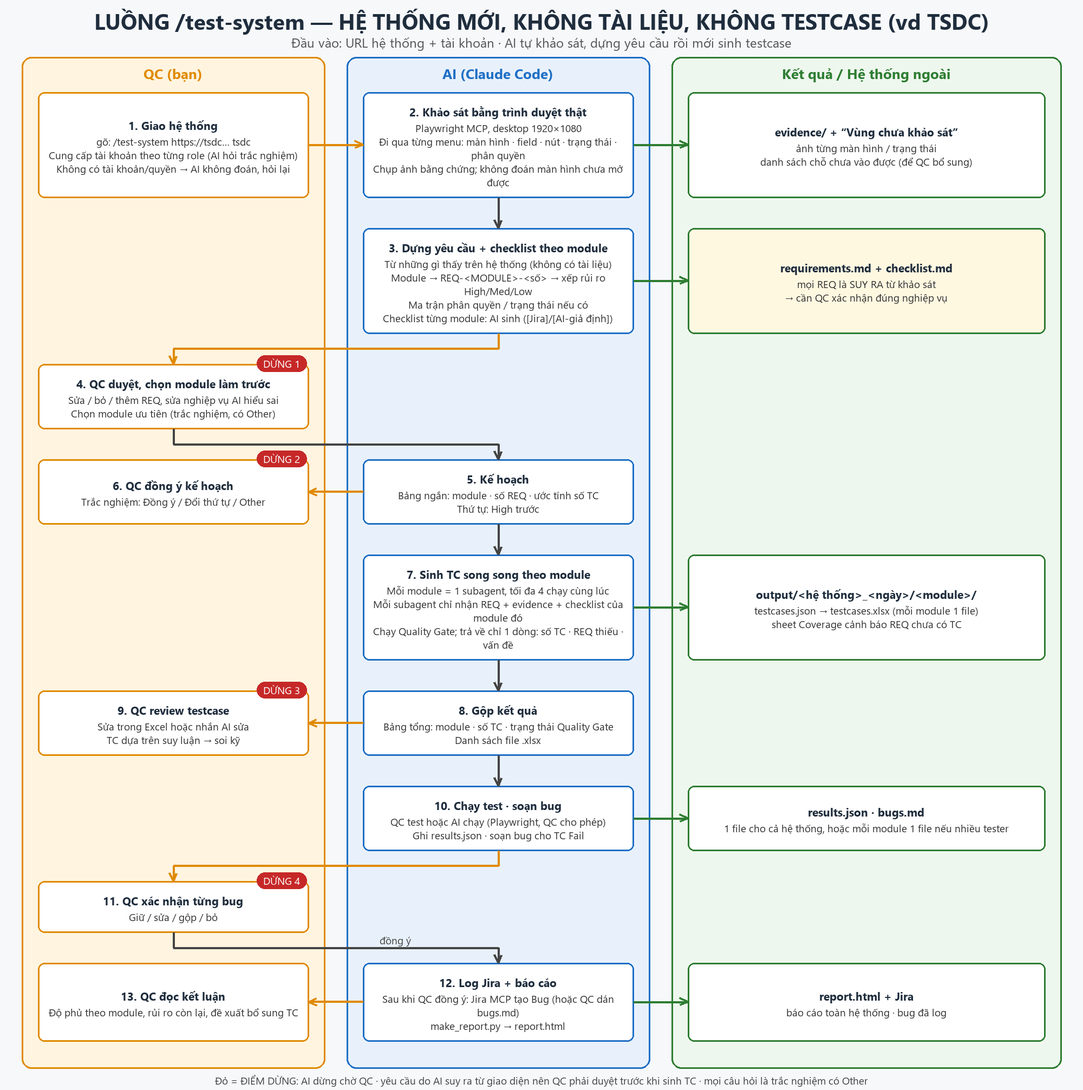
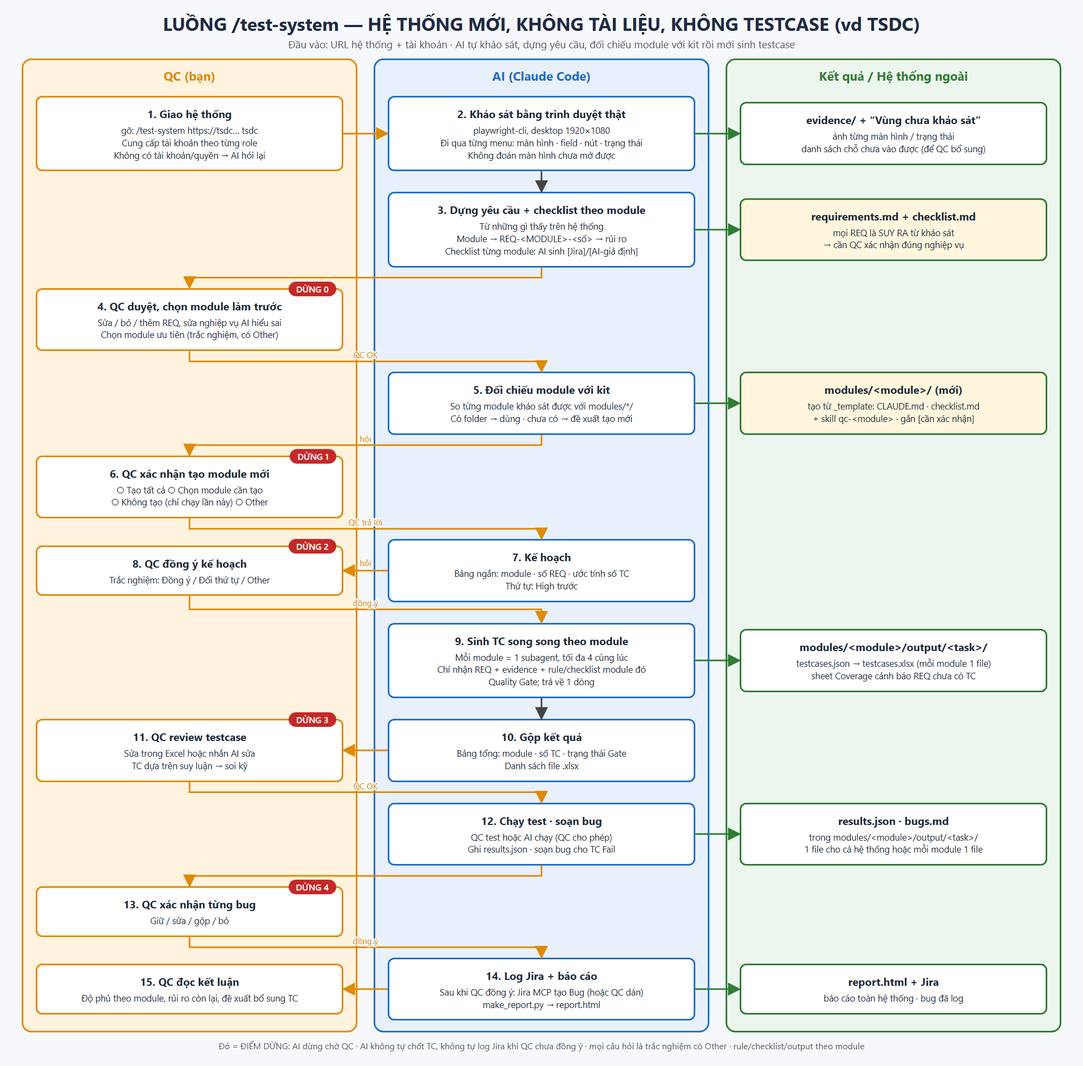
AI tự xác định module + xác nhận QC, vẽ lại ảnh luồng, thêm scripts/make_flows.py

diff --git a/scripts/make_flows.py b/scripts/make_flows.py
@@ -1,0 +1,202 @@
+# -*- coding: utf-8 -*-
+"""Sinh 3 ảnh luồng luong-test-*.png (swimlane) bằng HTML + Edge/Chrome headless.
+Chạy: python -I scripts/make_flows.py   (sửa nội dung ở FLOWS bên dưới rồi chạy lại)"""
+import html, json, os, re, subprocess, sys, tempfile
+
+ROOT = os.path.dirname(os.path.dirname(os.path.abspath(__file__)))
+BROWSERS = [r"C:\Program Files (x86)\Microsoft\Edge\Application\msedge.exe",
+            r"C:\Program Files\Google\Chrome\Application\chrome.exe"]
+
+# step: (id, lane, row, title, [dòng], số_điểm_dừng|None, style)   lane: qc|ai|out
+# edge: (từ, đến, nhãn)
+MOD_AI = ("Xác định module (AI tự phân tích)",
+          ["So task với Phạm vi + Từ khoá nhận diện", "của modules/*/CLAUDE.md"])
+NEW_MOD = ("modules/<module>/",
+           ["Khớp → dùng module có sẵn", "Không khớp → module mới: tạo từ _template",
+            "(CLAUDE.md · checklist.md · skill qc-<module>)"])
+
+FLOWS = {
+ "luong-test-task": dict(
+  title="LUỒNG /test-task — TASK UPCODE TRÊN JIRA",
+  sub="Đầu vào: Jira key hoặc mô tả task · AI tự xác định module, QC xác nhận",
+  steps=[
+   (1, "qc", 0, "Giao task", ["gõ: /test-task VNEDU-1234", "(hoặc dán mô tả task)"], None, ""),
+   (2, "ai", 0, "Đọc yêu cầu", ["Đọc ticket qua Jira MCP", "mô tả · AC · comment · file đính kèm"], None, ""),
+   (20, "out", 0, "Jira", ["ticket nguồn (chỉ ĐỌC ở bước này)"], None, ""),
+   (3, "ai", 1, *MOD_AI, None, ""),
+   (30, "out", 1, *NEW_MOD, None, "warn"),
+   (4, "qc", 2, "Xác nhận module", ["○ Đúng module AI nêu  ○ Chọn module khác", "○ Nhiều module (chính + ảnh hưởng chéo)", "○ Module mới → tạo folder + skill  ○ Other"], 0, ""),
+   (5, "ai", 3, "Nạp skill + checklist module", ["Nạp qc-<module> + rule module", "Checklist: modules/<module>/checklist.md", "Chưa có → hỏi QC"], None, ""),
+   (6, "qc", 3, "Chưa có checklist → AI hỏi", ["○ QC gửi checklist  ○ AI tự sinh (đề xuất)", "○ Bỏ qua (dùng checklist chung)  ○ Other"], 1, ""),
+   (50, "out", 3, "checklist.md", ["AI sinh: mục [Jira] / [AI-giả định]", "QC duyệt → lưu vào module hoặc chỉ task này"], None, "warn"),
+   (7, "ai", 4, "Phân tích", ["Rút REQ-… + xếp rủi ro High/Med/Low", "Mơ hồ chặn việc viết TC → hỏi QC"], None, ""),
+   (8, "qc", 4, "Trả lời câu hỏi (nếu có)", ["Trắc nghiệm, chọn đáp án hoặc Other"], 2, ""),
+   (9, "ai", 5, "Sinh testcase", ["Theo skill qc-testcase + rule/checklist module", "Quality Gate 5 mục · batch 15–25 TC", "Không in bảng ra chat"], None, ""),
+   (90, "out", 5, "modules/<module>/output/<task>/", ["testcases.json → testcases.xlsx", "sheet Testcase + sheet Coverage (REQ × TC)"], None, ""),
+   (10, "qc", 6, "QC review / bổ sung TC", ["Sửa trong Excel hoặc nhắn AI sửa", "→ xlsx_to_tc.py đồng bộ lại"], 3, ""),
+   (11, "ai", 7, "Chạy test & ghi kết quả", ["A: AI chạy playwright-cli / mobile-mcp (QC cho phép)", "B: QC tự test, báo ngắn: TC_001 pass; TC_002 fail: …"], None, ""),
+   (110, "out", 7, "results.json (+ screenshots/)", ["mỗi TC: Pass / Fail / Blocked / Skip", "thực tế · bug_id · bằng chứng"], None, ""),
+   (12, "ai", 8, "Soạn bug cho TC Fail", ["Theo templates/bug_template.md", "1 bug = 1 nguyên nhân · soát trùng"], None, ""),
+   (120, "out", 8, "bugs.md", ["bản nháp bug — chưa gửi đi đâu"], None, ""),
+   (13, "qc", 9, "QC xác nhận từng bug", ["Giữ / sửa / gộp / bỏ"], 4, ""),
+   (14, "ai", 10, "Log bug lên Jira", ["Chỉ SAU khi QC đồng ý", "Jira MCP tạo Bug, link ticket gốc", "Không có MCP: QC dán từ bugs.md"], None, ""),
+   (140, "out", 10, "Jira", ["Bug mới gắn vào ticket gốc", "key ghi lại vào results.json"], None, ""),
+   (15, "ai", 11, "Báo cáo", ["make_report.py results.json → report.html"], None, ""),
+   (150, "out", 11, "report.html", ["Số Pass/Fail/Blocked · tỉ lệ Pass", "danh sách bug · bảng TC lọc theo trạng thái"], None, ""),
+   (16, "qc", 11, "QC đọc kết luận", ["Quyết định release / yêu cầu dev sửa"], None, ""),
+  ],
+  edges=[(1, 2, ""), (2, 20, ""), (2, 3, ""), (3, 30, ""), (3, 4, "hỏi xác nhận"), (4, 5, "QC OK"), (5, 6, "chưa có"),
+         (5, 50, "AI sinh"), (6, 7, "QC trả lời"), (7, 8, "hỏi"), (8, 9, ""), (9, 90, ""), (9, 10, ""), (10, 11, "QC OK"),
+         (11, 110, ""), (11, 12, ""), (12, 120, ""), (12, 13, ""), (13, 14, "đồng ý"), (14, 140, ""), (14, 15, ""),
+         (15, 150, ""), (15, 16, "")]),
+ "luong-test-with-tc": dict(
+  title="LUỒNG /test-with-tc — ĐÃ CÓ TESTCASE (kiểm định / regression)",
+  sub="Đầu vào: file Excel testcase có sẵn · AI tự xác định module, QC xác nhận · checklist không bắt buộc",
+  steps=[
+   (1, "qc", 0, "Giao file testcase", ["gõ: /test-with-tc D:\\tc\\kiem_dinh_hss.xlsx", "(+ phạm vi nếu đã biết)"], None, ""),
+   (2, "ai", 0, "Nạp testcase", ["xlsx_to_tc.py: tự nhận cột theo tên tiêu đề", "báo: nhận bao nhiêu TC, cột nào nhận / không", "Cột sai → hỏi trắc nghiệm (có Other)"], None, ""),
+   (20, "out", 0, "testcases.json", ["bản chuẩn hoá của file Excel gốc", "file Excel gốc KHÔNG bị sửa"], None, ""),
+   (3, "ai", 1, *MOD_AI, None, ""),
+   (30, "out", 1, *NEW_MOD, None, "warn"),
+   (4, "qc", 2, "Xác nhận module", ["○ Đúng module AI nêu  ○ Chọn module khác", "○ Nhiều module  ○ Module mới → tạo folder + skill", "○ Other"], 0, ""),
+   (5, "ai", 3, "Hỏi phạm vi + checklist", ["Checklist không bắt buộc (đã có TC)", "Nếu có: báo mục checklist chưa có TC bao phủ"], None, ""),
+   (6, "qc", 3, "QC chọn (trắc nghiệm, có Other)", ["Phạm vi: tất cả / theo module / ưu tiên High / ID", "Đối chiếu độ phủ checklist?", "○ QC gửi  ○ AI sinh từ TC + tài liệu  ○ Không cần"], 1, ""),
+   (50, "out", 3, "checklist.md (nếu chọn)", ["modules/<module>/checklist.md", "dùng để tìm TC còn thiếu"], None, "warn"),
+   (7, "ai", 4, "Chạy test theo nhóm 10–15 TC", ["A: AI chạy playwright-cli / mobile-mcp (QC cho phép)", "B: QC tự test, báo ngắn: TC_001 pass; TC_002 fail: …", "Không sửa TC gốc; TC lỗi thời → danh sách riêng"], None, ""),
+   (70, "out", 4, "results.json (+ screenshots/)", ["Pass / Fail / Blocked / Skip + thực tế + bằng chứng", "Danh sách “TC cần cập nhật” (QC quyết sau)"], None, ""),
+   (8, "ai", 5, "Soạn bug cho TC Fail", ["Theo templates/bug_template.md", "1 bug = 1 nguyên nhân · soát trùng"], None, ""),
+   (80, "out", 5, "bugs.md", ["bản nháp, chưa gửi đi đâu"], None, ""),
+   (9, "qc", 6, "QC xác nhận từng bug", ["Giữ / sửa / gộp / bỏ"], 2, ""),
+   (10, "ai", 7, "Log bug lên Jira", ["Chỉ SAU khi QC đồng ý", "Jira MCP tạo Bug, link ticket gốc", "Không có MCP: QC dán từ bugs.md"], None, ""),
+   (100, "out", 7, "Jira", ["Bug mới, key ghi lại vào results.json"], None, ""),
+   (11, "ai", 8, "Báo cáo", ["make_report.py results.json → report.html", "kèm phần “TC cần cập nhật” trong kết luận"], None, ""),
+   (110, "out", 8, "report.html", ["Pass/Fail/Blocked · tỉ lệ Pass", "danh sách bug · bảng TC lọc theo trạng thái"], None, ""),
+   (12, "qc", 8, "QC đọc kết luận", ["Quyết định release / cập nhật bộ TC / yêu cầu dev sửa"], None, ""),
+  ],
+  edges=[(1, 2, ""), (2, 20, ""), (2, 3, ""), (3, 30, ""), (3, 4, "hỏi xác nhận"), (4, 5, "QC OK"), (5, 6, "hỏi"), (5, 50, ""),
+         (6, 7, "QC chọn"), (7, 70, ""), (7, 8, ""), (8, 80, ""), (8, 9, ""), (9, 10, "đồng ý"), (10, 100, ""),
+         (10, 11, ""), (11, 110, ""), (11, 12, "")]),
+ "luong-test-system": dict(
+  title="LUỒNG /test-system — HỆ THỐNG MỚI, KHÔNG TÀI LIỆU, KHÔNG TESTCASE (vd TSDC)",
+  sub="Đầu vào: URL hệ thống + tài khoản · AI tự khảo sát, dựng yêu cầu, đối chiếu module với kit rồi mới sinh testcase",
+  steps=[
+   (1, "qc", 0, "Giao hệ thống", ["gõ: /test-system https://tsdc… tsdc", "Cung cấp tài khoản theo từng role", "Không có tài khoản/quyền → AI hỏi lại"], None, ""),
+   (2, "ai", 0, "Khảo sát bằng trình duyệt thật", ["playwright-cli, desktop 1920×1080", "Đi qua từng menu: màn hình · field · nút · trạng thái", "Không đoán màn hình chưa mở được"], None, ""),
+   (20, "out", 0, "evidence/ + “Vùng chưa khảo sát”", ["ảnh từng màn hình / trạng thái", "danh sách chỗ chưa vào được (để QC bổ sung)"], None, ""),
+   (3, "ai", 1, "Dựng yêu cầu + checklist theo module", ["Từ những gì thấy trên hệ thống", "Module → REQ-<MODULE>-<số> → rủi ro", "Checklist từng module: AI sinh [Jira]/[AI-giả định]"], None, ""),
+   (30, "out", 1, "requirements.md + checklist.md", ["mọi REQ là SUY RA từ khảo sát", "→ cần QC xác nhận đúng nghiệp vụ"], None, "warn"),
+   (4, "qc", 2, "QC duyệt, chọn module làm trước", ["Sửa / bỏ / thêm REQ, sửa nghiệp vụ AI hiểu sai", "Chọn module ưu tiên (trắc nghiệm, có Other)"], 0, ""),
+   (5, "ai", 3, "Đối chiếu module với kit", ["So từng module khảo sát được với modules/*/", "Có folder → dùng · chưa có → đề xuất tạo mới"], None, ""),
+   (50, "out", 3, "modules/<module>/ (mới)", ["tạo từ _template: CLAUDE.md · checklist.md", "+ skill qc-<module> · gắn [cần xác nhận]"], None, "warn"),
+   (6, "qc", 4, "QC xác nhận tạo module mới", ["○ Tạo tất cả  ○ Chọn module cần tạo", "○ Không tạo (chỉ chạy lần này)  ○ Other"], 1, ""),
+   (7, "ai", 5, "Kế hoạch", ["Bảng ngắn: module · số REQ · ước tính số TC", "Thứ tự: High trước"], None, ""),
+   (8, "qc", 5, "QC đồng ý kế hoạch", ["Trắc nghiệm: Đồng ý / Đổi thứ tự / Other"], 2, ""),
+   (9, "ai", 6, "Sinh TC song song theo module", ["Mỗi module = 1 subagent, tối đa 4 cùng lúc", "Chỉ nhận REQ + evidence + rule/checklist module đó", "Quality Gate; trả về 1 dòng"], None, ""),
+   (90, "out", 6, "modules/<module>/output/<task>/", ["testcases.json → testcases.xlsx (mỗi module 1 file)", "sheet Coverage cảnh báo REQ chưa có TC"], None, ""),
+   (10, "ai", 7, "Gộp kết quả", ["Bảng tổng: module · số TC · trạng thái Gate", "Danh sách file .xlsx"], None, ""),
+   (11, "qc", 7, "QC review testcase", ["Sửa trong Excel hoặc nhắn AI sửa", "TC dựa trên suy luận → soi kỹ"], 3, ""),
+   (12, "ai", 8, "Chạy test · soạn bug", ["QC test hoặc AI chạy (QC cho phép)", "Ghi results.json · soạn bug cho TC Fail"], None, ""),
+   (120, "out", 8, "results.json · bugs.md", ["trong modules/<module>/output/<task>/", "1 file cho cả hệ thống hoặc mỗi module 1 file"], None, ""),
+   (13, "qc", 9, "QC xác nhận từng bug", ["Giữ / sửa / gộp / bỏ"], 4, ""),
+   (14, "ai", 10, "Log Jira + báo cáo", ["Sau khi QC đồng ý: Jira MCP tạo Bug (hoặc QC dán)", "make_report.py → report.html"], None, ""),
+   (140, "out", 10, "report.html + Jira", ["báo cáo toàn hệ thống · bug đã log"], None, ""),
+   (15, "qc", 10, "QC đọc kết luận", ["Độ phủ theo module, rủi ro còn lại, đề xuất bổ sung TC"], None, ""),
+  ],
+  edges=[(1, 2, ""), (2, 20, ""), (2, 3, ""), (3, 30, ""), (3, 4, ""), (4, 5, "QC OK"), (5, 50, ""), (5, 6, "hỏi"),
+         (6, 7, "QC trả lời"), (7, 8, "hỏi"), (8, 9, "đồng ý"), (9, 90, ""), (9, 10, ""), (10, 11, ""), (11, 12, "QC OK"),
+         (12, 120, ""), (12, 13, ""), (13, 14, "đồng ý"), (14, 140, ""), (14, 15, "")]),
+}
+
+CSS = """
+*{box-sizing:border-box}
+body{margin:0;background:#f6f8fb;font-family:'Segoe UI','Be Vietnam Pro',Arial,sans-serif;color:#1f2937;width:2000px}
+h1{margin:0;padding:20px 0 2px;text-align:center;font-size:34px;color:#1f2a44}
+.sub{text-align:center;color:#556;font-size:19px;margin-bottom:14px}
+#wrap{position:relative;margin:0 40px;display:grid;grid-template-columns:1fr 1fr 1fr;column-gap:30px;align-content:start}
+.lane{border-radius:18px;border:3px solid;z-index:0}
+.lane.qc{background:#fff3df;border-color:#e08a00}
+.lane.ai{background:#e8f0fc;border-color:#1f6fcc}
+.lane.out{background:#edf6ee;border-color:#2e7d32}
+.hd{z-index:1;text-align:center;font-weight:700;font-size:23px;padding:16px 0 6px}
+.hd.qc{color:#e08a00}.hd.ai{color:#1f6fcc}.hd.out{color:#2e7d32}
+.card{position:relative;z-index:2;margin:16px 26px 22px;background:#fff;border:3px solid;border-radius:12px;padding:16px 18px;text-align:center;align-self:center}
+.card.qc{border-color:#e08a00}.card.ai{border-color:#1f6fcc}.card.out{border-color:#2e7d32}.card.warn{background:#fff6dd}
+.card b{display:block;font-size:20px;margin-bottom:6px}
+.card span{display:block;font-size:16.5px;line-height:1.38}
+.stop{position:absolute;right:10px;top:-15px;background:#c62828;color:#fff;border-radius:14px;padding:3px 14px;font-size:16px;font-weight:600}
+svg{position:absolute;left:0;top:0;z-index:3;pointer-events:none;overflow:visible}
+.foot{text-align:center;color:#556;font-size:16px;padding:14px 0 16px}
+"""
+
+JS = """
+const L=__DATA__;
+const col={qc:'#e08a00',ai:'#444',out:'#2e7d32'};
+const w=document.getElementById('wrap'),wr=w.getBoundingClientRect();
+const R=id=>{const r=document.getElementById('s'+id).getBoundingClientRect();return {l:r.left-wr.left,r:r.right-wr.left,t:r.top-wr.top,b:r.bottom-wr.top,cx:(r.left+r.right)/2-wr.left,cy:(r.top+r.bottom)/2-wr.top}};
+let svg='<defs>'+Object.entries(col).map(([k,c])=>`<marker id="m${k}" viewBox="0 0 10 10" refX="9" refY="5" markerWidth="8" markerHeight="8" orient="auto"><path d="M0,0L10,5L0,10z" fill="${c}"/></marker>`).join('')+'</defs>';
+const lane={};L.steps.forEach(s=>lane[s[0]]=s[1]);
+L.edges.forEach(([a,b,lab])=>{
+ const A=R(a),B=R(b);
+ let c;
+ if(lane[b]=='out')c='out'; else if(lane[a]=='qc'||lane[b]=='qc')c='qc'; else c='ai';
+ let d,lx,ly;
+ if(Math.abs(A.cy-B.cy)<12){const x1=A.cx<B.cx?A.r:A.l,x2=A.cx<B.cx?B.l:B.r;d=`M${x1},${A.cy}L${x2},${B.cy}`;lx=(x1+x2)/2;ly=A.cy-8;}
+ else if(Math.abs(A.cx-B.cx)<20){d=`M${A.cx},${A.b}L${B.cx},${B.t}`;lx=A.cx+8;ly=(A.b+B.t)/2;}
+ else{const my=(A.b+B.t)/2;d=`M${A.cx},${A.b}L${A.cx},${my}L${B.cx},${my}L${B.cx},${B.t}`;lx=(A.cx+B.cx)/2;ly=my-6;}
+ svg+=`<path d="${d}" fill="none" stroke="${col[c]}" stroke-width="3" marker-end="url(#m${c})"/>`;
+ if(lab)svg+=`<text x="${lx}" y="${ly}" text-anchor="middle" font-size="15" fill="${col[c]}" stroke="#f6f8fb" stroke-width="4" paint-order="stroke">${lab}</text>`;
+});
+const S=document.getElementById('svg');S.setAttribute('width',wr.width);S.setAttribute('height',wr.height);S.innerHTML=svg;
+document.body.setAttribute('data-h',Math.ceil(document.body.getBoundingClientRect().height)+10);
+"""
+
+LANES = [("qc", "QC (bạn)"), ("ai", "AI (Claude Code)"), ("out", "Kết quả / Hệ thống ngoài")]
+
+
+def build(f):
+    e = html.escape
+    nrows = max(s[2] for s in f["steps"]) + 1
+    parts = [f"<h1>{e(f['title'])}</h1><div class='sub'>{e(f['sub'])}</div><div id='wrap'>"]
+    for i, (k, name) in enumerate(LANES):
+        parts.append(f"<div class='lane {k}' style='grid-column:{i+1};grid-row:1/span {nrows+1}'></div>"
+                     f"<div class='hd {k}' style='grid-column:{i+1};grid-row:1'>{e(name)}</div>")
+    col = {"qc": 1, "ai": 2, "out": 3}
+    for sid, lane, row, title, lines, stop, style in f["steps"]:
+        num = f"{sid}. " if sid < 20 or sid in (50, 90) and False else ""
+        if sid >= 20 and sid % 10 == 0:
+            num = ""
+        elif sid < 20:
+            num = f"{sid}. "
+        st = f"<div class='stop'>DỪNG {stop}</div>" if stop is not None else ""
+        body = "".join(f"<span>{e(x)}</span>" for x in lines)
+        parts.append(f"<div class='card {lane} {style}' id='s{sid}' style='grid-column:{col[lane]};grid-row:{row+2}'>{st}<b>{e(num+title)}</b>{body}</div>")
+    parts.append("<svg id='svg'></svg></div>")
+    parts.append("<div class='foot'>Đỏ = ĐIỂM DỪNG: AI dừng chờ QC · AI không tự chốt TC, không tự log Jira khi QC chưa đồng ý · mọi câu hỏi là trắc nghiệm có Other · rule/checklist/output theo module</div>")
+    data = json.dumps({"steps": [[s[0], s[1]] for s in f["steps"]], "edges": f["edges"]}, ensure_ascii=False)
+    return ("<!doctype html><html><head><meta charset='utf-8'><style>" + CSS + "</style></head><body>"
+            + "".join(parts) + "<script>" + JS.replace("__DATA__", data) + "</script></body></html>")
+
+
+def run(exe, *a):
+    return subprocess.run([exe, "--headless=new", "--disable-gpu", "--hide-scrollbars", "--force-device-scale-factor=1", *a],
+                          capture_output=True, text=True, encoding="utf-8", timeout=120)
+
+
+def main():
+    exe = next((b for b in BROWSERS if os.path.exists(b)), None)
+    if not exe:
+        sys.exit("Không tìm thấy Edge/Chrome")
+    tmp = tempfile.mkdtemp()
+    for name, f in FLOWS.items():
+        p = os.path.join(tmp, name + ".html")
+        open(p, "w", encoding="utf-8").write(build(f))
+        url = "file:///" + p.replace("\\", "/")
+        dom = run(exe, "--window-size=2000,3000", "--dump-dom", url).stdout
+        h = int(re.search(r'data-h="(\d+)"', dom).group(1))
+        out = os.path.join(ROOT, name + ".png")
+        run(exe, f"--window-size=2000,{h}", f"--screenshot={out}", url)
+        print(name, h, os.path.exists(out))
+
+
+if __name__ == "__main__":
+    main()

diff --git a/.claude/commands/test-task.md b/.claude/commands/test-task.md
@@ -4,6 +4,13 @@ argument-hint: <Jira key hoặc dán mô tả task> [tên hệ thống: vnedu|hs
 ---
 Nạp skill `qc-testcase`. Làm theo thứ tự, **dừng ở mỗi ĐIỂM DỪNG**. Đầu vào: $ARGUMENTS
 
+## B0. Xác định module (làm trước, tự phân tích)
+Theo `modules/README.md` mục "Xác định module": so khớp nội dung đầu vào với `modules/*/CLAUDE.md` (mục Phạm vi + Từ khoá nhận diện).
+- Khớp 1 module → báo 1 dòng "Module: <tên> (lý do)", **hỏi QC xác nhận** (trắc nghiệm: đúng / chọn module khác / task chạm nhiều module).
+- Khớp nhiều module → hỏi QC chọn module chính + module ảnh hưởng chéo.
+- **Không khớp module nào → module mới**: hỏi QC (trắc nghiệm) có tạo module mới không, và tên module. Đồng ý → tạo `modules/<module>/` + skill `qc-<module>` từ `modules/_template/` (xem `modules/README.md` "Thêm module mới"), điền phần suy ra được từ task (gắn `[cần xác nhận]`), **ĐIỂM DỪNG** cho QC duyệt rule/checklist rồi mới đi tiếp.
+- Sau khi chốt: nạp skill `qc-<module>`, đọc `modules/<module>/CLAUDE.md`; output ghi vào `modules/<module>/output/<task>/` (thay cho `output/<task>/` ở các bước dưới).
+
 ## B1. Lấy yêu cầu và checklist
 - Có Jira key và Jira MCP đã kết nối → đọc ticket (mô tả, acceptance criteria, comment, file đính kèm quan trọng). Không có MCP → xin QC dán mô tả.
 - Xác định hệ thống (không rõ thì hỏi trắc nghiệm).

diff --git a/.claude/commands/test-with-tc.md b/.claude/commands/test-with-tc.md
@@ -4,6 +4,13 @@ argument-hint: <đường dẫn file .xlsx testcase> [phạm vi: module/ID/ưu t
 ---
 Nạp skill `qc-testcase`. Đầu vào: $ARGUMENTS
 
+## B0. Xác định module (làm trước, tự phân tích)
+Theo `modules/README.md` mục "Xác định module": so khớp nội dung đầu vào với `modules/*/CLAUDE.md` (mục Phạm vi + Từ khoá nhận diện).
+- Khớp 1 module → báo 1 dòng "Module: <tên> (lý do)", **hỏi QC xác nhận** (trắc nghiệm: đúng / chọn module khác / task chạm nhiều module).
+- Khớp nhiều module → hỏi QC chọn module chính + module ảnh hưởng chéo.
+- **Không khớp module nào → module mới**: hỏi QC (trắc nghiệm) có tạo module mới không, và tên module. Đồng ý → tạo `modules/<module>/` + skill `qc-<module>` từ `modules/_template/` (xem `modules/README.md` "Thêm module mới"), điền phần suy ra được từ task (gắn `[cần xác nhận]`), **ĐIỂM DỪNG** cho QC duyệt rule/checklist rồi mới đi tiếp.
+- Sau khi chốt: nạp skill `qc-<module>`, đọc `modules/<module>/CLAUDE.md`; output ghi vào `modules/<module>/output/<task>/` (thay cho `output/<task>/` ở các bước dưới).
+
 ## B1. Nạp TC và checklist
 - `python -I scripts/xlsx_to_tc.py "<file.xlsx>" output/<task>/testcases.json` (thêm `--sheet <tên>` nếu nhiều sheet).
 - Báo QC: nhận bao nhiêu TC, cột nào nhận được / không nhận được. Cột sai thì hỏi QC (trắc nghiệm, có Other) cột nào là cột nào.

diff --git a/modules/README.md b/modules/README.md
@@ -13,10 +13,17 @@ Mỗi module (hồ sơ số, sổ đầu bài, ...) = 1 thư mục riêng, gồm
 - `ho-so-so` — Hồ sơ số (mẫu)
 - `so-dau-bai` — Sổ đầu bài (mẫu)
 
+## Xác định module (AI tự làm khi nhận task)
+1. Đọc nhanh mục "Phạm vi" + "Từ khoá nhận diện" của `modules/*/CLAUDE.md` (không đọc hết file).
+2. So với tiêu đề/mô tả/component/tên màn hình trong task.
+3. Báo kết quả + lý do 1 dòng, **hỏi QC xác nhận** (trắc nghiệm). Nhiều module → hỏi module chính + ảnh hưởng chéo. Không khớp → đề xuất tạo module mới.
+
 ## Thêm module mới
 1. Copy `modules/_template/` → `modules/<module>/` (bỏ `SKILL.md` ra bước 2).
 2. Copy `modules/_template/SKILL.md` → `.claude/skills/qc-<module>/SKILL.md`, thay `<module>`.
 3. Điền `CLAUDE.md` + `checklist.md` (mục `[điền]`). Giữ mục nào chưa chắc là `[cần xác nhận]`.
-4. Chạy: `/test-task <ticket> module:<module>`.
+4. Chạy: `/test-task <ticket>` (AI tự nhận module; có thể ghi kèm `module:<module>` để bỏ qua bước đoán).
+
+AI tự thực hiện bước 1–3 khi gặp module mới, sau khi QC đồng ý.
 
 Quy tắc chung (CLAUDE.md gốc + skill `qc-testcase`) luôn áp dụng; rule module chỉ **bổ sung**, không được mâu thuẫn.

diff --git a/.claude/commands/test-system.md b/.claude/commands/test-system.md
@@ -9,6 +9,9 @@ Nạp skill `qc-testcase`. Đầu vào: $ARGUMENTS
 - Không đủ thông tin đăng nhập/quyền → hỏi QC (trắc nghiệm, có Other).
 - **Checklist:** theo skill `qc-testcase` mục 0 — chưa có thì hỏi QC gửi hay AI sinh; với hệ thống mới, AI sinh checklist **theo từng module** và QC duyệt cùng danh sách REQ ở B2.
 
+## B1b. Đối chiếu module với kit
+Với mỗi module khảo sát được, đối chiếu `modules/*/`. Module chưa có folder → hỏi QC (trắc nghiệm) có tạo không; đồng ý → tạo từ `modules/_template/` + skill `qc-<module>` (theo `modules/README.md`), điền phần suy ra được, gắn `[cần xác nhận]`. Output từng module ghi vào `modules/<module>/output/`.
+
 ## B2. Danh sách module + REQ
 Ghi `output/<hệ thống>_<ngày>/requirements.md`: module → REQ (mã `REQ-<MODULE>-<số>`) → rủi ro. Kèm ma trận phân quyền / trạng thái nếu có. **ĐIỂM DỪNG 1 — QC duyệt danh sách module và REQ, chọn module làm trước.**
 

diff --git a/CLAUDE.md b/CLAUDE.md
@@ -13,7 +13,7 @@ Bạn là trợ lý cho QC. Mục tiêu: giảm công sức test manual, chạy 
 8. Không ghi mật khẩu, token thật vào file trong kit.
 
 ## Module
-Task thuộc module nào (hồ sơ số, sổ đầu bài...) → nạp skill `qc-<module>` + đọc `modules/<module>/CLAUDE.md` trước khi sinh TC; output ghi vào `modules/<module>/output/<task>/`. Không rõ module → hỏi trắc nghiệm.
+Khi nhận task, **AI tự phân tích task thuộc module nào** (so với `modules/*/CLAUDE.md`), rồi **hỏi QC xác nhận** bằng trắc nghiệm. Xác nhận xong → nạp skill `qc-<module>` + đọc `modules/<module>/CLAUDE.md`; output ghi vào `modules/<module>/output/<task>/`. Không khớp module nào → hỏi QC có tạo module mới không; đồng ý thì tạo folder + skill từ `modules/_template/` (xem `modules/README.md`).
 
 ## Tiết kiệm token
 - Chỉ đọc checklist liên quan tới màn hình đang test (field / component / scenarios), không đọc hết.

diff --git a/modules/so-dau-bai/CLAUDE.md b/modules/so-dau-bai/CLAUDE.md
@@ -5,6 +5,10 @@ Bổ sung cho `CLAUDE.md` gốc và skill `qc-testcase`. Skill: `qc-so-dau-bai`.
 - Màn hình/chức năng: [cần xác nhận] chọn lớp/môn/tiết · ghi nội dung bài · điểm danh/xếp loại tiết · nhận xét · duyệt/khoá sổ
 - Ngoài phạm vi: [điền]
 
+## Từ khoá nhận diện (để AI xếp task vào module)
+- [cần xác nhận] sổ đầu bài, tiết học, nội dung bài, nhận xét tiết, khoá sổ, thời khoá biểu
+- [điền] tên màn hình, thuật ngữ, component Jira, từ hay gặp trong ticket
+
 ## Vai trò & phân quyền
 | Vai trò | Quyền chính | Tài khoản test (tên biến, KHÔNG ghi mật khẩu) |
 |---|---|---|

diff --git a/modules/ho-so-so/CLAUDE.md b/modules/ho-so-so/CLAUDE.md
@@ -5,6 +5,10 @@ Bổ sung cho `CLAUDE.md` gốc và skill `qc-testcase`. Skill: `qc-ho-so-so`. C
 - Màn hình/chức năng: [cần xác nhận] danh sách hồ sơ · tạo/sửa hồ sơ · đính kèm/xem tệp · duyệt · xuất/in
 - Ngoài phạm vi: [điền]
 
+## Từ khoá nhận diện (để AI xếp task vào module)
+- [cần xác nhận] hồ sơ số, hồ sơ điện tử, tệp đính kèm, kho hồ sơ, duyệt hồ sơ
+- [điền] tên màn hình, thuật ngữ, component Jira, từ hay gặp trong ticket
+
 ## Vai trò & phân quyền
 | Vai trò | Quyền chính | Tài khoản test (tên biến, KHÔNG ghi mật khẩu) |
 |---|---|---|

diff --git a/modules/_template/CLAUDE.md b/modules/_template/CLAUDE.md
@@ -5,6 +5,9 @@ Bổ sung cho `CLAUDE.md` gốc và skill `qc-testcase`. Skill: `qc-<module>`. C
 - Màn hình/chức năng: [điền]
 - Ngoài phạm vi: [điền]
 
+## Từ khoá nhận diện (để AI xếp task vào module)
+- [điền] tên màn hình, thuật ngữ, component Jira, từ hay gặp trong ticket
+
 ## Vai trò & phân quyền
 | Vai trò | Quyền chính | Tài khoản test (tên biến, KHÔNG ghi mật khẩu) |
 |---|---|---|
